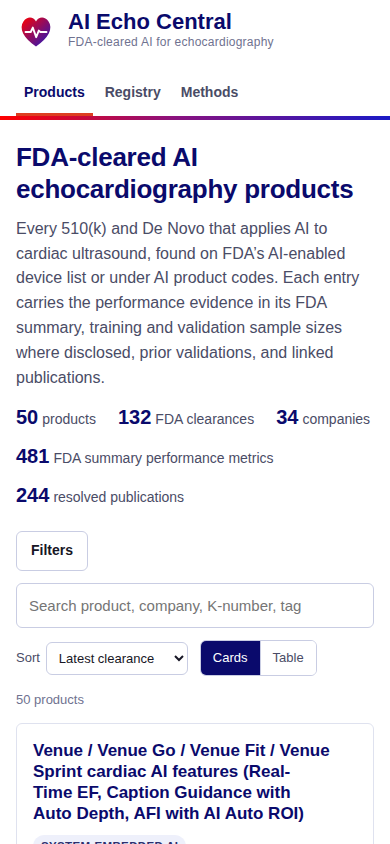
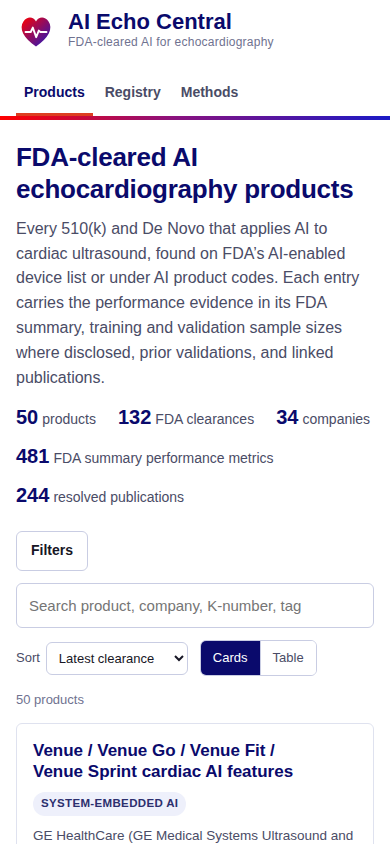
Show short product names on cards and table rows
Claude-Session: https://claude.ai/code/session_01XwTTa6SWNrNXUkyMUL8ExW

Changed region(s): [[0.0615, 0.8626, 0.9231, 1.0]]

diff --git a/dist/ai-echo-central.html b/dist/ai-echo-central.html
@@ -38788,6 +38788,7 @@ window.AIECHO_REGISTRY = {
     else { $('#cards').hidden = true; $('#table').hidden = false; renderTable(visible); }
   }
 
+  const shortName = (n) => (n.length > 60 ? n.replace(/\s*\([^)]*\)\s*$/, '') : n);
   function chips(f) {
     const out = [];
     if (f.research_pending) out.push('<span class="chip muted">Research pending</span>');
@@ -38805,7 +38806,7 @@ window.AIECHO_REGISTRY = {
     if (!list.length) { host.innerHTML = '<p class="empty">No products match.</p>'; return; }
     host.innerHTML = list.map((f) => `
       <article class="card" data-id="${esc(f.id)}">
-        <div class="card-top"><h3><button type="button" data-open="${esc(f.id)}">${esc(f.product_name)}</button></h3><span class="cat ${f.research_pending ? 'pending' : ''}">${f.research_pending ? 'Research pending' : esc(CAT[f.category] || f.category)}</span></div>
+        <div class="card-top"><h3><button type="button" data-open="${esc(f.id)}" title="${esc(f.product_name)}">${esc(shortName(f.product_name))}</button></h3><span class="cat ${f.research_pending ? 'pending' : ''}">${f.research_pending ? 'Research pending' : esc(CAT[f.category] || f.category)}</span></div>
         <p class="co">${esc(f.company)}</p>
         ${f.summary ? `<p class="sum">${esc(f.summary)}</p>` : ''}
         <div class="meta">
@@ -38826,7 +38827,7 @@ window.AIECHO_REGISTRY = {
     const host = $('#table');
     if (!list.length) { host.innerHTML = '<p class="empty">No products match.</p>'; return; }
     host.innerHTML = `<table><thead><tr><th>Product</th><th>Company</th><th>Function</th><th>Latest clearance</th><th class="r">Clearances</th><th>Pathway</th><th>Code</th><th class="r">FDA summary metrics</th><th class="r">Papers</th><th>Training set</th></tr></thead><tbody>${list.map((f) => `
-      <tr><td><button class="link" type="button" data-open="${esc(f.id)}">${esc(f.product_name)}</button></td><td>${esc(companyShort(f.company))}</td><td>${f.research_pending ? 'Research pending' : esc(CAT[f.category] || f.category)}</td><td class="num">${fmtDate(f.latest_cleared)}</td><td class="r num">${f.n_clearances}</td><td>${esc(f.pathways.join(', '))}</td><td>${esc(f.product_codes.join(', '))}</td><td class="r num">${f.n_fda_claims}</td><td class="r num">${f.n_papers_resolved}/${f.n_papers}</td><td class="num">${trainingCell(f.training_data)}</td></tr>`).join('')}</tbody></table>`;
+      <tr><td><button class="link" type="button" data-open="${esc(f.id)}" title="${esc(f.product_name)}">${esc(shortName(f.product_name))}</button></td><td>${esc(companyShort(f.company))}</td><td>${f.research_pending ? 'Research pending' : esc(CAT[f.category] || f.category)}</td><td class="num">${fmtDate(f.latest_cleared)}</td><td class="r num">${f.n_clearances}</td><td>${esc(f.pathways.join(', '))}</td><td>${esc(f.product_codes.join(', '))}</td><td class="r num">${f.n_fda_claims}</td><td class="r num">${f.n_papers_resolved}/${f.n_papers}</td><td class="num">${trainingCell(f.training_data)}</td></tr>`).join('')}</tbody></table>`;
   }
 
   // ---------- detail panel ----------

diff --git a/assets/app.js b/assets/app.js
@@ -101,6 +101,7 @@
     else { $('#cards').hidden = true; $('#table').hidden = false; renderTable(visible); }
   }
 
+  const shortName = (n) => (n.length > 60 ? n.replace(/\s*\([^)]*\)\s*$/, '') : n);
   function chips(f) {
     const out = [];
     if (f.research_pending) out.push('<span class="chip muted">Research pending</span>');
@@ -118,7 +119,7 @@
     if (!list.length) { host.innerHTML = '<p class="empty">No products match.</p>'; return; }
     host.innerHTML = list.map((f) => `
       <article class="card" data-id="${esc(f.id)}">
-        <div class="card-top"><h3><button type="button" data-open="${esc(f.id)}">${esc(f.product_name)}</button></h3><span class="cat ${f.research_pending ? 'pending' : ''}">${f.research_pending ? 'Research pending' : esc(CAT[f.category] || f.category)}</span></div>
+        <div class="card-top"><h3><button type="button" data-open="${esc(f.id)}" title="${esc(f.product_name)}">${esc(shortName(f.product_name))}</button></h3><span class="cat ${f.research_pending ? 'pending' : ''}">${f.research_pending ? 'Research pending' : esc(CAT[f.category] || f.category)}</span></div>
         <p class="co">${esc(f.company)}</p>
         ${f.summary ? `<p class="sum">${esc(f.summary)}</p>` : ''}
         <div class="meta">
@@ -139,7 +140,7 @@
     const host = $('#table');
     if (!list.length) { host.innerHTML = '<p class="empty">No products match.</p>'; return; }
     host.innerHTML = `<table><thead><tr><th>Product</th><th>Company</th><th>Function</th><th>Latest clearance</th><th class="r">Clearances</th><th>Pathway</th><th>Code</th><th class="r">FDA summary metrics</th><th class="r">Papers</th><th>Training set</th></tr></thead><tbody>${list.map((f) => `
-      <tr><td><button class="link" type="button" data-open="${esc(f.id)}">${esc(f.product_name)}</button></td><td>${esc(companyShort(f.company))}</td><td>${f.research_pending ? 'Research pending' : esc(CAT[f.category] || f.category)}</td><td class="num">${fmtDate(f.latest_cleared)}</td><td class="r num">${f.n_clearances}</td><td>${esc(f.pathways.join(', '))}</td><td>${esc(f.product_codes.join(', '))}</td><td class="r num">${f.n_fda_claims}</td><td class="r num">${f.n_papers_resolved}/${f.n_papers}</td><td class="num">${trainingCell(f.training_data)}</td></tr>`).join('')}</tbody></table>`;
+      <tr><td><button class="link" type="button" data-open="${esc(f.id)}" title="${esc(f.product_name)}">${esc(shortName(f.product_name))}</button></td><td>${esc(companyShort(f.company))}</td><td>${f.research_pending ? 'Research pending' : esc(CAT[f.category] || f.category)}</td><td class="num">${fmtDate(f.latest_cleared)}</td><td class="r num">${f.n_clearances}</td><td>${esc(f.pathways.join(', '))}</td><td>${esc(f.product_codes.join(', '))}</td><td class="r num">${f.n_fda_claims}</td><td class="r num">${f.n_papers_resolved}/${f.n_papers}</td><td class="num">${trainingCell(f.training_data)}</td></tr>`).join('')}</tbody></table>`;
   }
 
   // ---------- detail panel ----------
